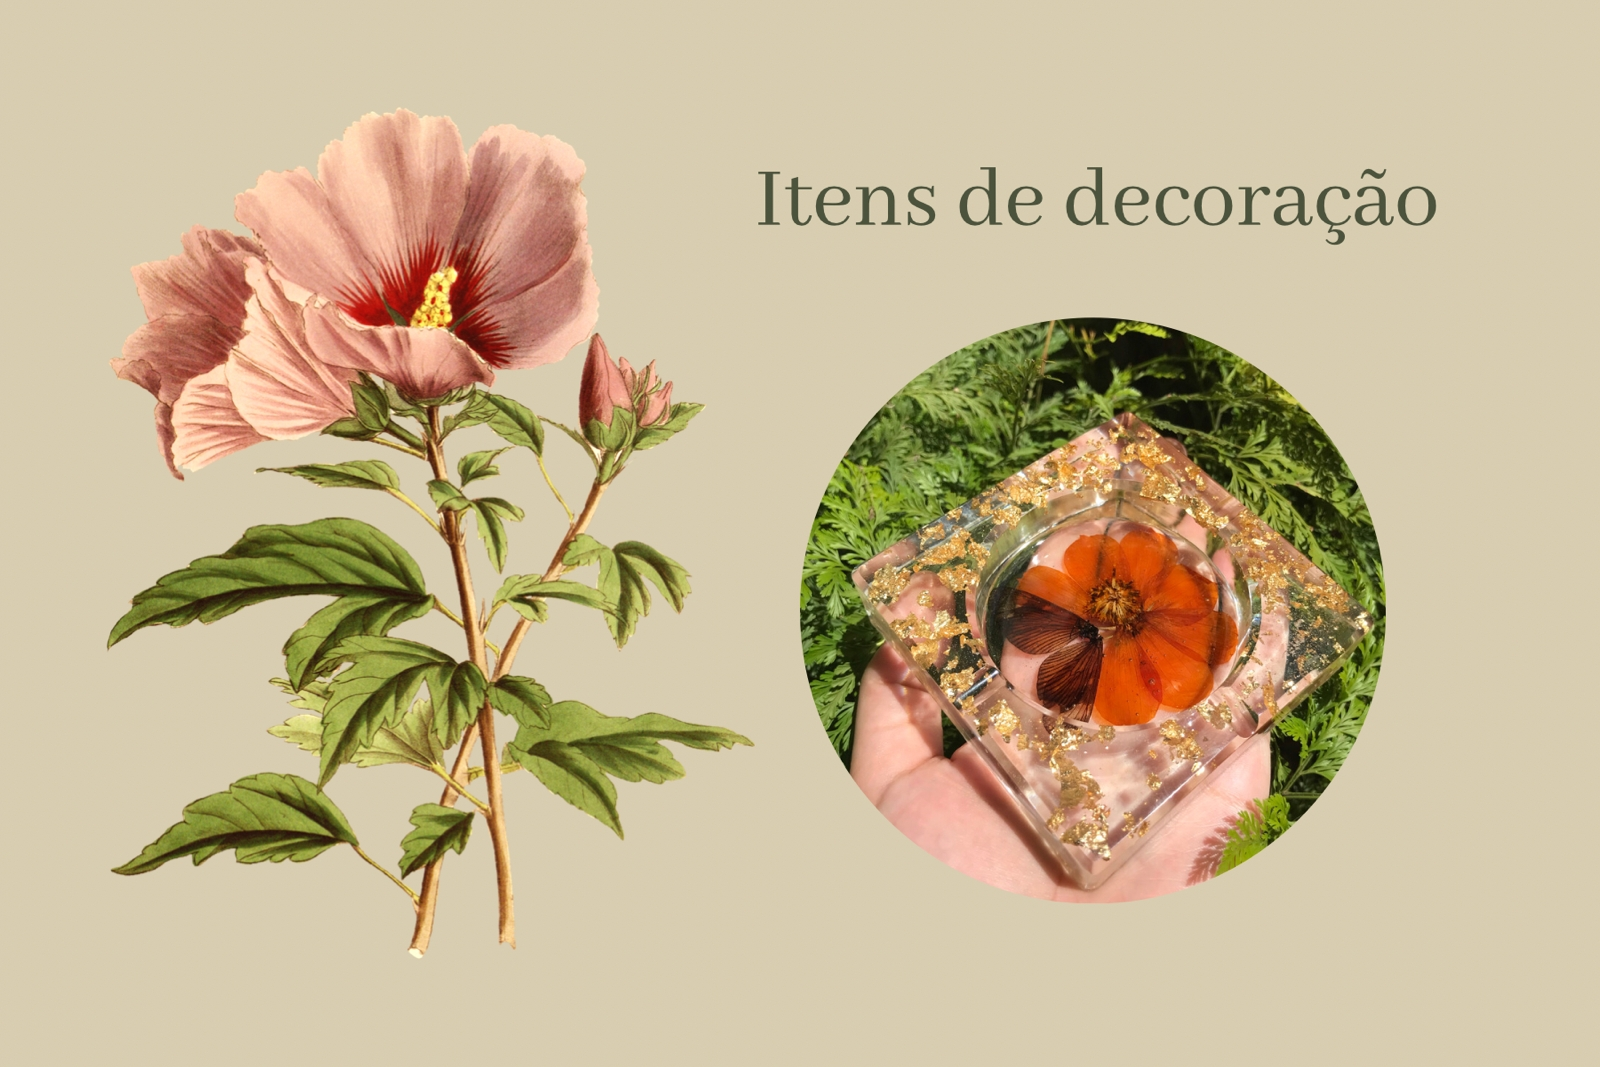
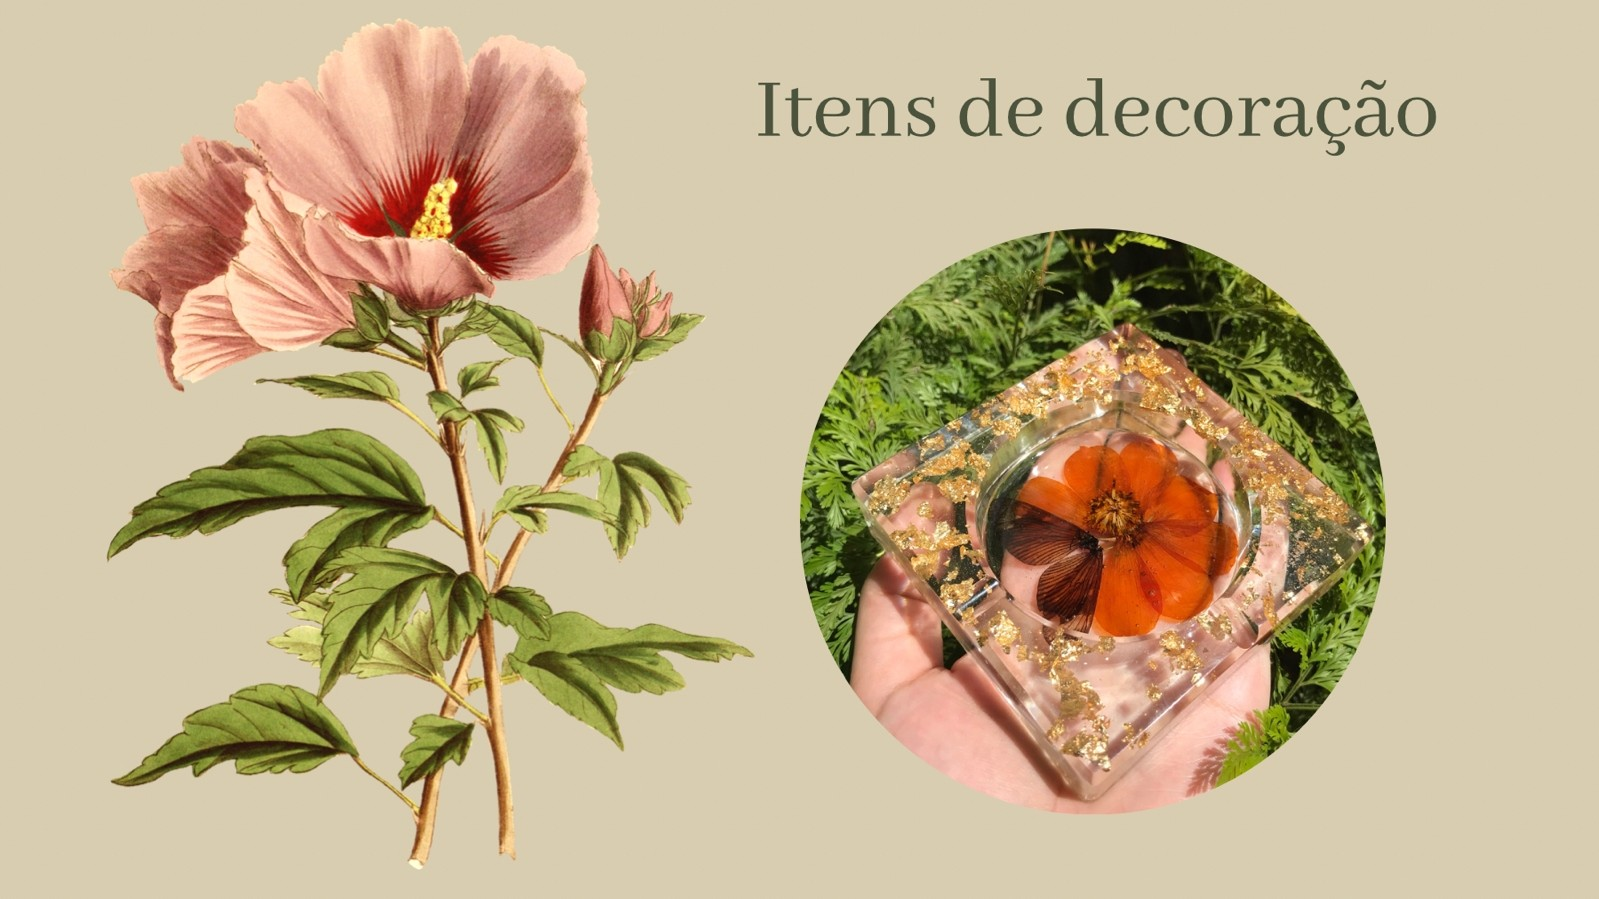
style: general style

Changed region(s): [[0.0613, 0.0, 0.8887, 0.9655], [0.4597, 0.0934, 0.9193, 0.218]]

diff --git a/src/components/Navbar/NavbarElements.js b/src/components/Navbar/NavbarElements.js
@@ -11,11 +11,12 @@ export const Nav = styled.nav`
   position: fixed;
   top: 0;
   left: 0;
-  z-index: 1;
-  color: #ffffff;
+  z-index: 3;
+  color: #6a5525;
   padding: 0 10%;
-  background-color: #9ba17b;
-  box-shadow: 0px -1px 10px rgba(0, 0, 0, 0.25);
+  background-color: #b9a46c;
+  box-shadow: -1px -1px 10px rgba(255, 255, 255, 0.5);
+  // box-shadow: 0px -1px 10px rgba(0, 0, 0, 0.25);
 `;
 
 export const Logo = styled(Link)`
@@ -40,17 +41,13 @@ export const Menu = styled.ul`
     margin-left: 1rem;
 
     &:hover {
-      color: #e6cf5b;
+      color: #e5d13b;
     }
   }
 `;
 
 export const Wrapper = styled.span`
   margin-left: 1rem;
-
-  &:hover {
-    color: #e6cf5b;
-  }
 
   > div > div {
     border: none;
@@ -71,7 +68,7 @@ export const Wrapper = styled.span`
 export const Item = styled.div`
   height: 80px;
   font-weight: 500;
-  color: #ffffff;
+  color: #6a5525;
   display: flex;
   align-items: center;
   padding: 0 1rem;
@@ -80,7 +77,7 @@ export const Item = styled.div`
   position: relative;
 
   &:hover {
-    color: #e6cf5b;
+    color: #e5d13b;
   }
 `;
 

diff --git a/src/services/productsApi.js b/src/services/productsApi.js
@@ -1,17 +1,17 @@
 import { api } from "./api";
 
 async function getProducts() {
-  const response = await api.get("/api/products/home");
+  const response = await api.get("/products/latest");
   return response.data;
 }
 
 async function getProductDetail(id) {
-  const response = await api.get(`/api/products/${id}`);
+  const response = await api.get(`/products/${id}`);
   return response.data;
 }
 
 async function getProductByCategory(id) {
-  const response = await api.get(`/api/products/category/${id}`);
+  const response = await api.get(`/products/category/${id}`);
   return response.data;
 }
 

diff --git a/src/components/shared/buttonWrapper.js b/src/components/shared/buttonWrapper.js
@@ -4,15 +4,17 @@ export const ButtonWrapper = css`
   width: max-content;
   height: max-content;
   padding: 0.75rem 1.2rem;
-  border: 1px solid #9ba17bdb;
+  border: 1px solid #a7b656db;
   border-radius: 0.4rem;
   cursor: pointer;
   transition: all 400ms ease;
-  background-color: #c2ca96db;
+  background-color: #c0993ede;
   outline: none;
   font-size: 1rem;
+  box-shadow: 0 0 10px -2px rgba(94, 104, 121, 0.3);
+  //box-shadow: -1px -1px 10px rgba(255, 255, 255, 0.5);
 
   &:hover {
-    background-color: transparent;
+    background-color: #abb86bdb;
   }
 `;

diff --git a/src/components/ProductCard/ProductCardElements.js b/src/components/ProductCard/ProductCardElements.js
@@ -4,8 +4,9 @@ import { ButtonWrapper, ImageWrapper } from "../shared";
 export const Content = styled.div`
   max-width: 100%;
   min-height: 400px;
-  box-shadow: -5px -5px 10px rgba(255, 255, 255, 0.5), 2px 2px 5px rgba(94, 104, 121, 0.3);
+  box-shadow: -1px -1px 10px rgba(255, 255, 255, 0.5);
   // box-shadow: 0 0 9px -4px rgba(0, 0, 0, 0.25);
+  // background-color: #d8cdb1;
   border-radius: 10px;
   padding: 1.5rem;
   display: flex;

diff --git a/src/services/userApi.js b/src/services/userApi.js
@@ -1,12 +1,12 @@
 import { api } from "./api";
 
 async function signup(data) {
-  const response = await api.post("/api/users/signup", data);
+  const response = await api.post("/users/signup", data);
   return response.data;
 }
 
 async function signin(data) {
-  const response = await api.post("/api/users/signin", data);
+  const response = await api.post("/users/signin", data);
   return response.data;
 }
 

diff --git a/src/pages/ProductDetail/ProductDetailElements.js b/src/pages/ProductDetail/ProductDetailElements.js
@@ -4,7 +4,7 @@ import { BadgeWrapper, ButtonWrapper, ImageWrapper } from "../../components/shar
 export const Image = styled.img`
   ${ImageWrapper}
   max-width: 400px;
-  box-shadow: -5px -5px 10px rgba(255, 255, 255, 0.5), 2px 2px 5px rgba(94, 104, 121, 0.3);
+  box-shadow: -1px -1px 10px rgba(255, 255, 255, 0.5);
   // box-shadow: 0 0 8px -4px rgba(0, 0, 0, 0.25);
   margin: 0 auto;
 `;

diff --git a/src/components/Carousel/CarouselContainer.js b/src/components/Carousel/CarouselContainer.js
@@ -7,9 +7,11 @@ export function CarouselContainer({ children }) {
 const Wrapper = styled.div`
   margin-bottom: 2rem;
   border-radius: 10px;
-  box-shadow: 0 0 10px -2px rgba(0, 0, 0, 0.25);
+  box-shadow: 0 0 10px -2px rgba(94, 104, 121, 0.3);
+  //box-shadow: 0 0 10px -2px rgba(0, 0, 0, 0.25);
 
   .carousel-inner {
     border-radius: 10px;
+    max-height: 500px;
   }
 `;

diff --git a/src/components/CartItem/CartItemElements.js b/src/components/CartItem/CartItemElements.js
@@ -22,7 +22,7 @@ export const ImageBox = styled.div`
   ${DisplayCenter}
   width: 60%;
   border-radius: 10px;
-  box-shadow: -5px -5px 10px rgba(255, 255, 255, 0.5), 2px 2px 5px rgba(94, 104, 121, 0.3);
+  box-shadow: -1px -1px 10px rgba(255, 255, 255, 0.5), 2px 2px 5px rgba(94, 104, 121, 0.3);
 
   @media screen and (max-width: 750px) {
     grid-row-end: span 2;

diff --git a/src/assets/globalStyle/globalStyle.js b/src/assets/globalStyle/globalStyle.js
@@ -29,8 +29,9 @@ const GlobalStyle = createGlobalStyle`
     body {
         line-height: 1;
         font-family: 'Montserrat', sans-serif;
-        background-color: #FAF8F1;
-        font-size: 1rem;
+       background-color: #cabd89;
+      // background-color : #d8cdb0 ;
+       font-size: 1rem;
     }
     ol, ul {
         list-style: none;

diff --git a/src/services/checkoutApi.js b/src/services/checkoutApi.js
@@ -1,7 +1,7 @@
 import { api } from "./api";
 
 async function createCheckout(data) {
-  const response = await api.post("/api/stripe/checkout-session", data, {
+  const response = await api.post("/stripe/checkout-session", data, {
     headers: {
       Authorization: `Bearer ${process.env.STRIPE_PKEY}`,
     },

diff --git a/src/pages/Cart/CartElements.js b/src/pages/Cart/CartElements.js
@@ -23,6 +23,9 @@ export const CartContent = styled.div`
   display: flex;
   flex-direction: column;
   gap: 1.3rem;
+  padding: 1rem;
+  border-radius: 10px;
+  box-shadow: 0 0 9px -4px rgba(0, 0, 0, 0.25);
 `;
 
 export const CheckoutContent = styled.div`

diff --git a/src/services/categoriesApi.js b/src/services/categoriesApi.js
@@ -1,7 +1,7 @@
 import { api } from "./api";
 
 async function getCategories() {
-  const response = await api.get("/api/categories");
+  const response = await api.get("/categories");
   return response.data;
 }
 
